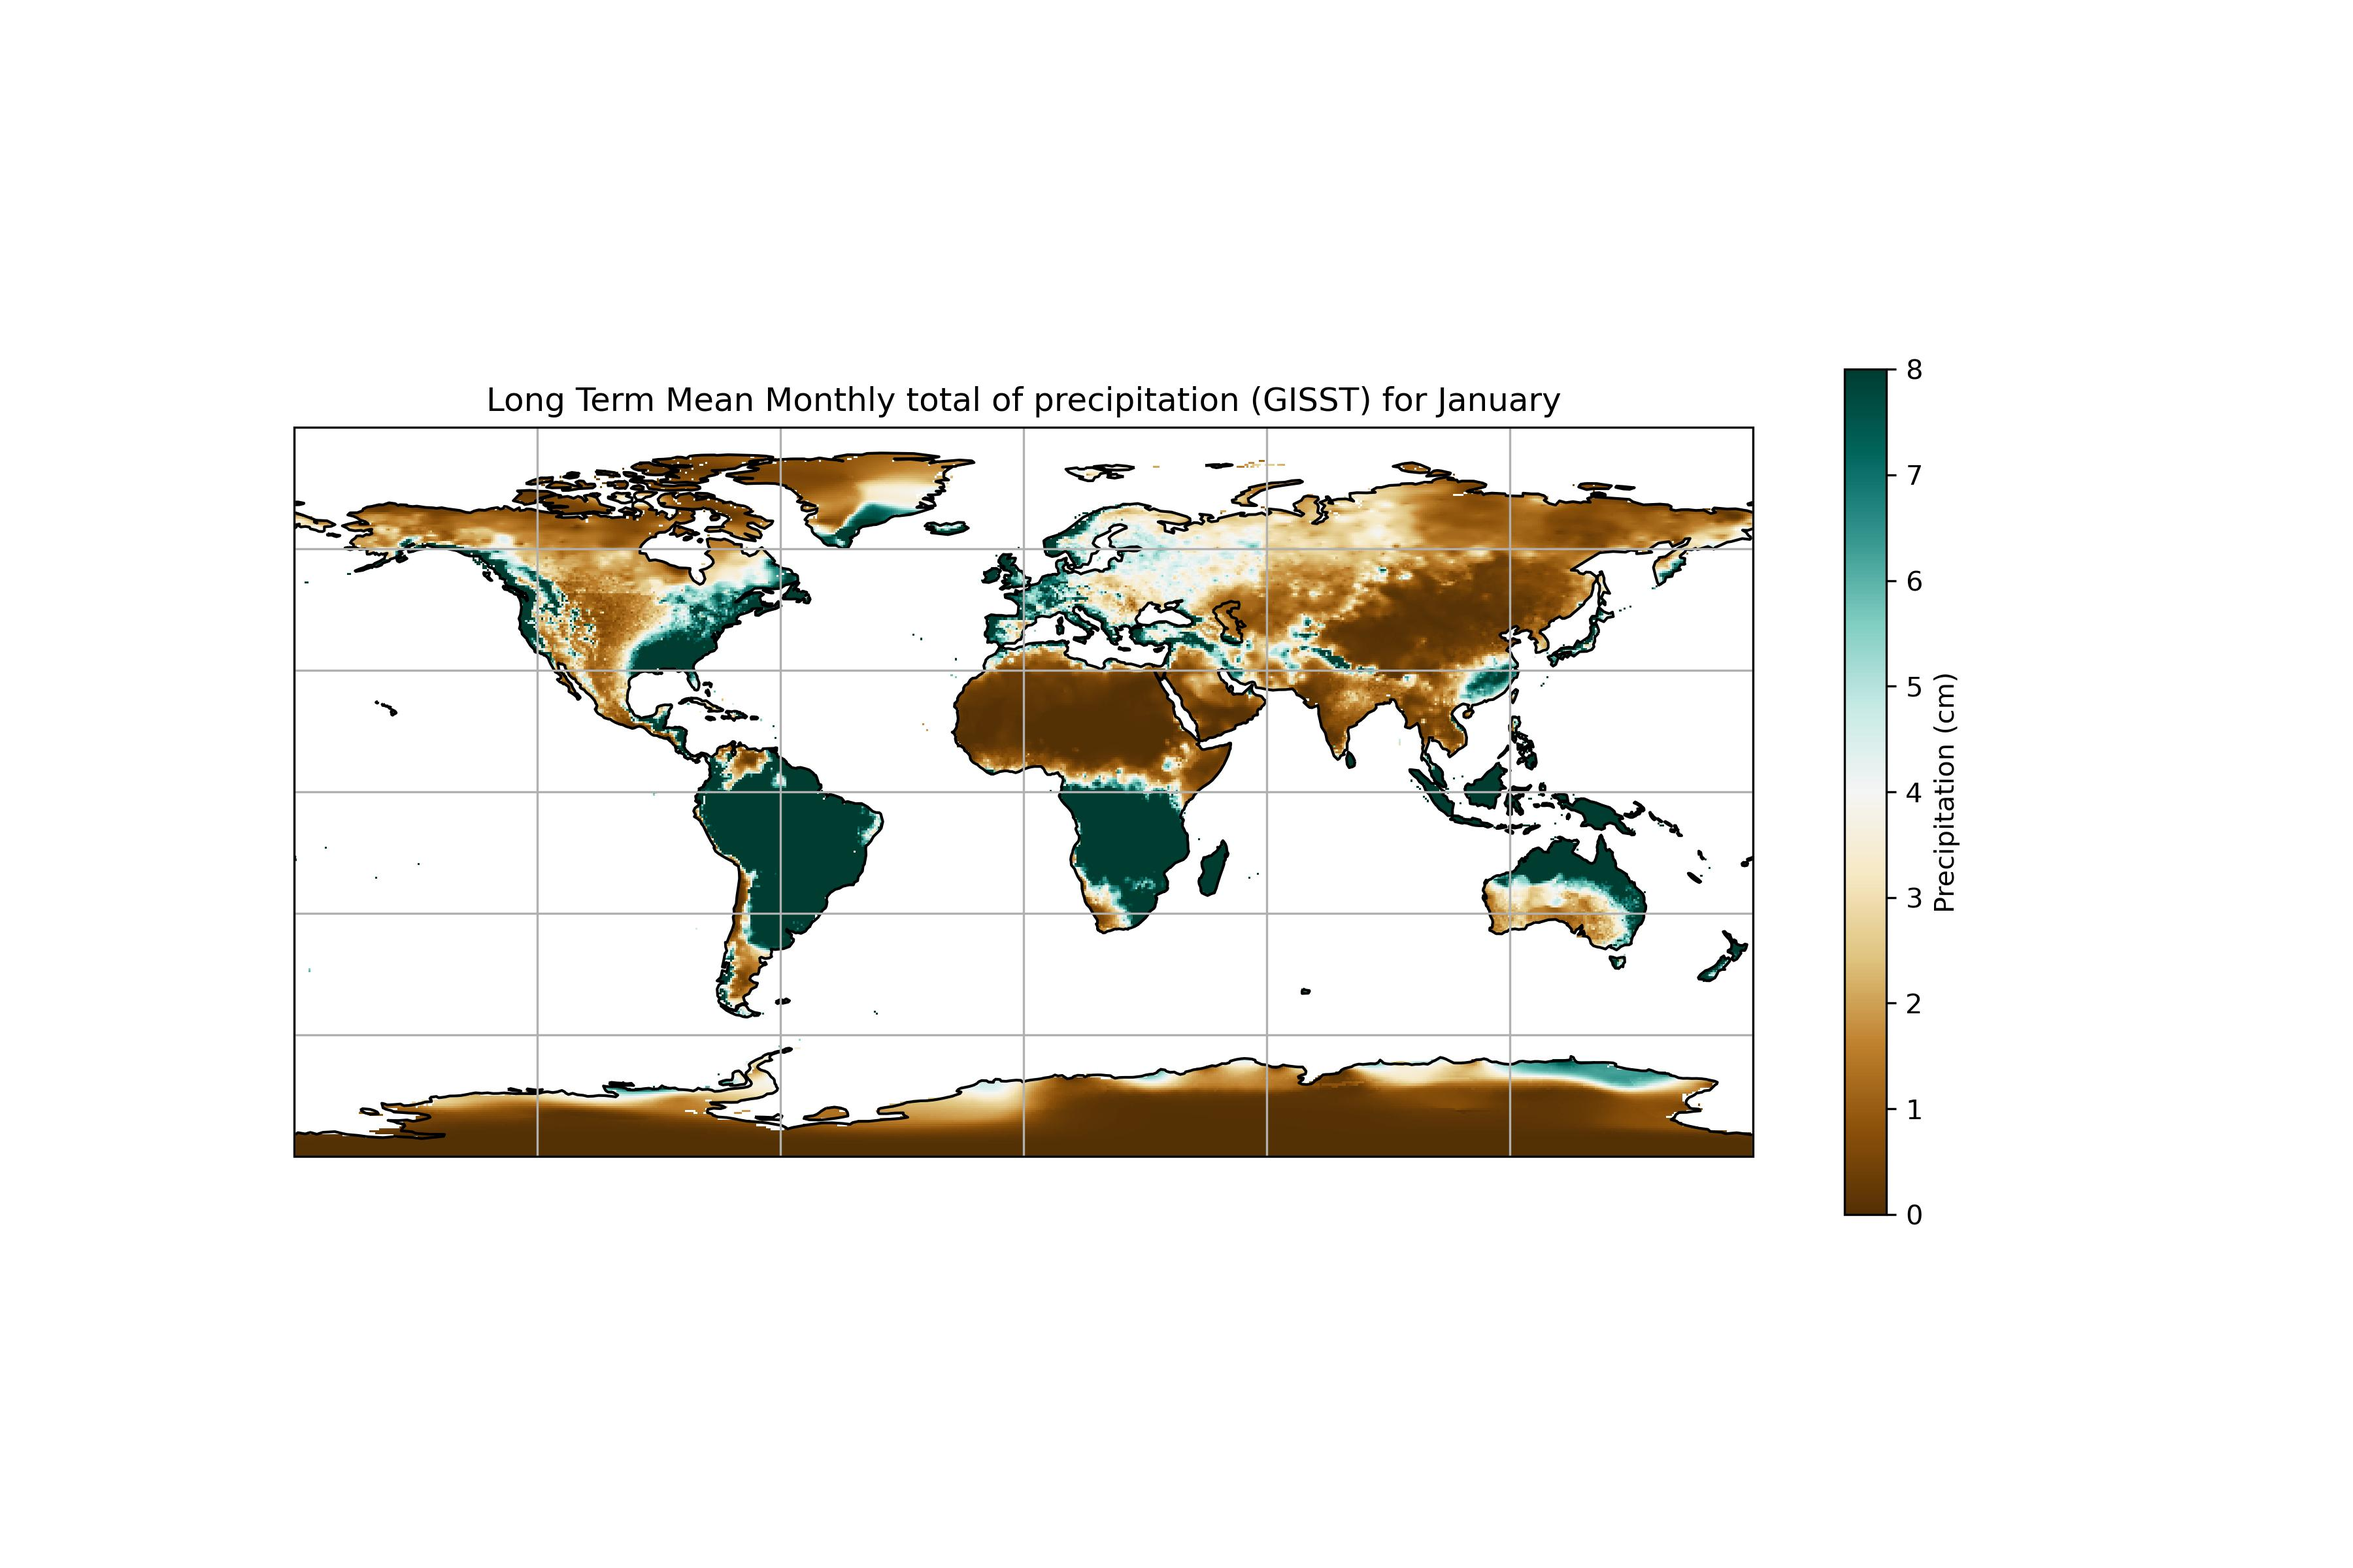
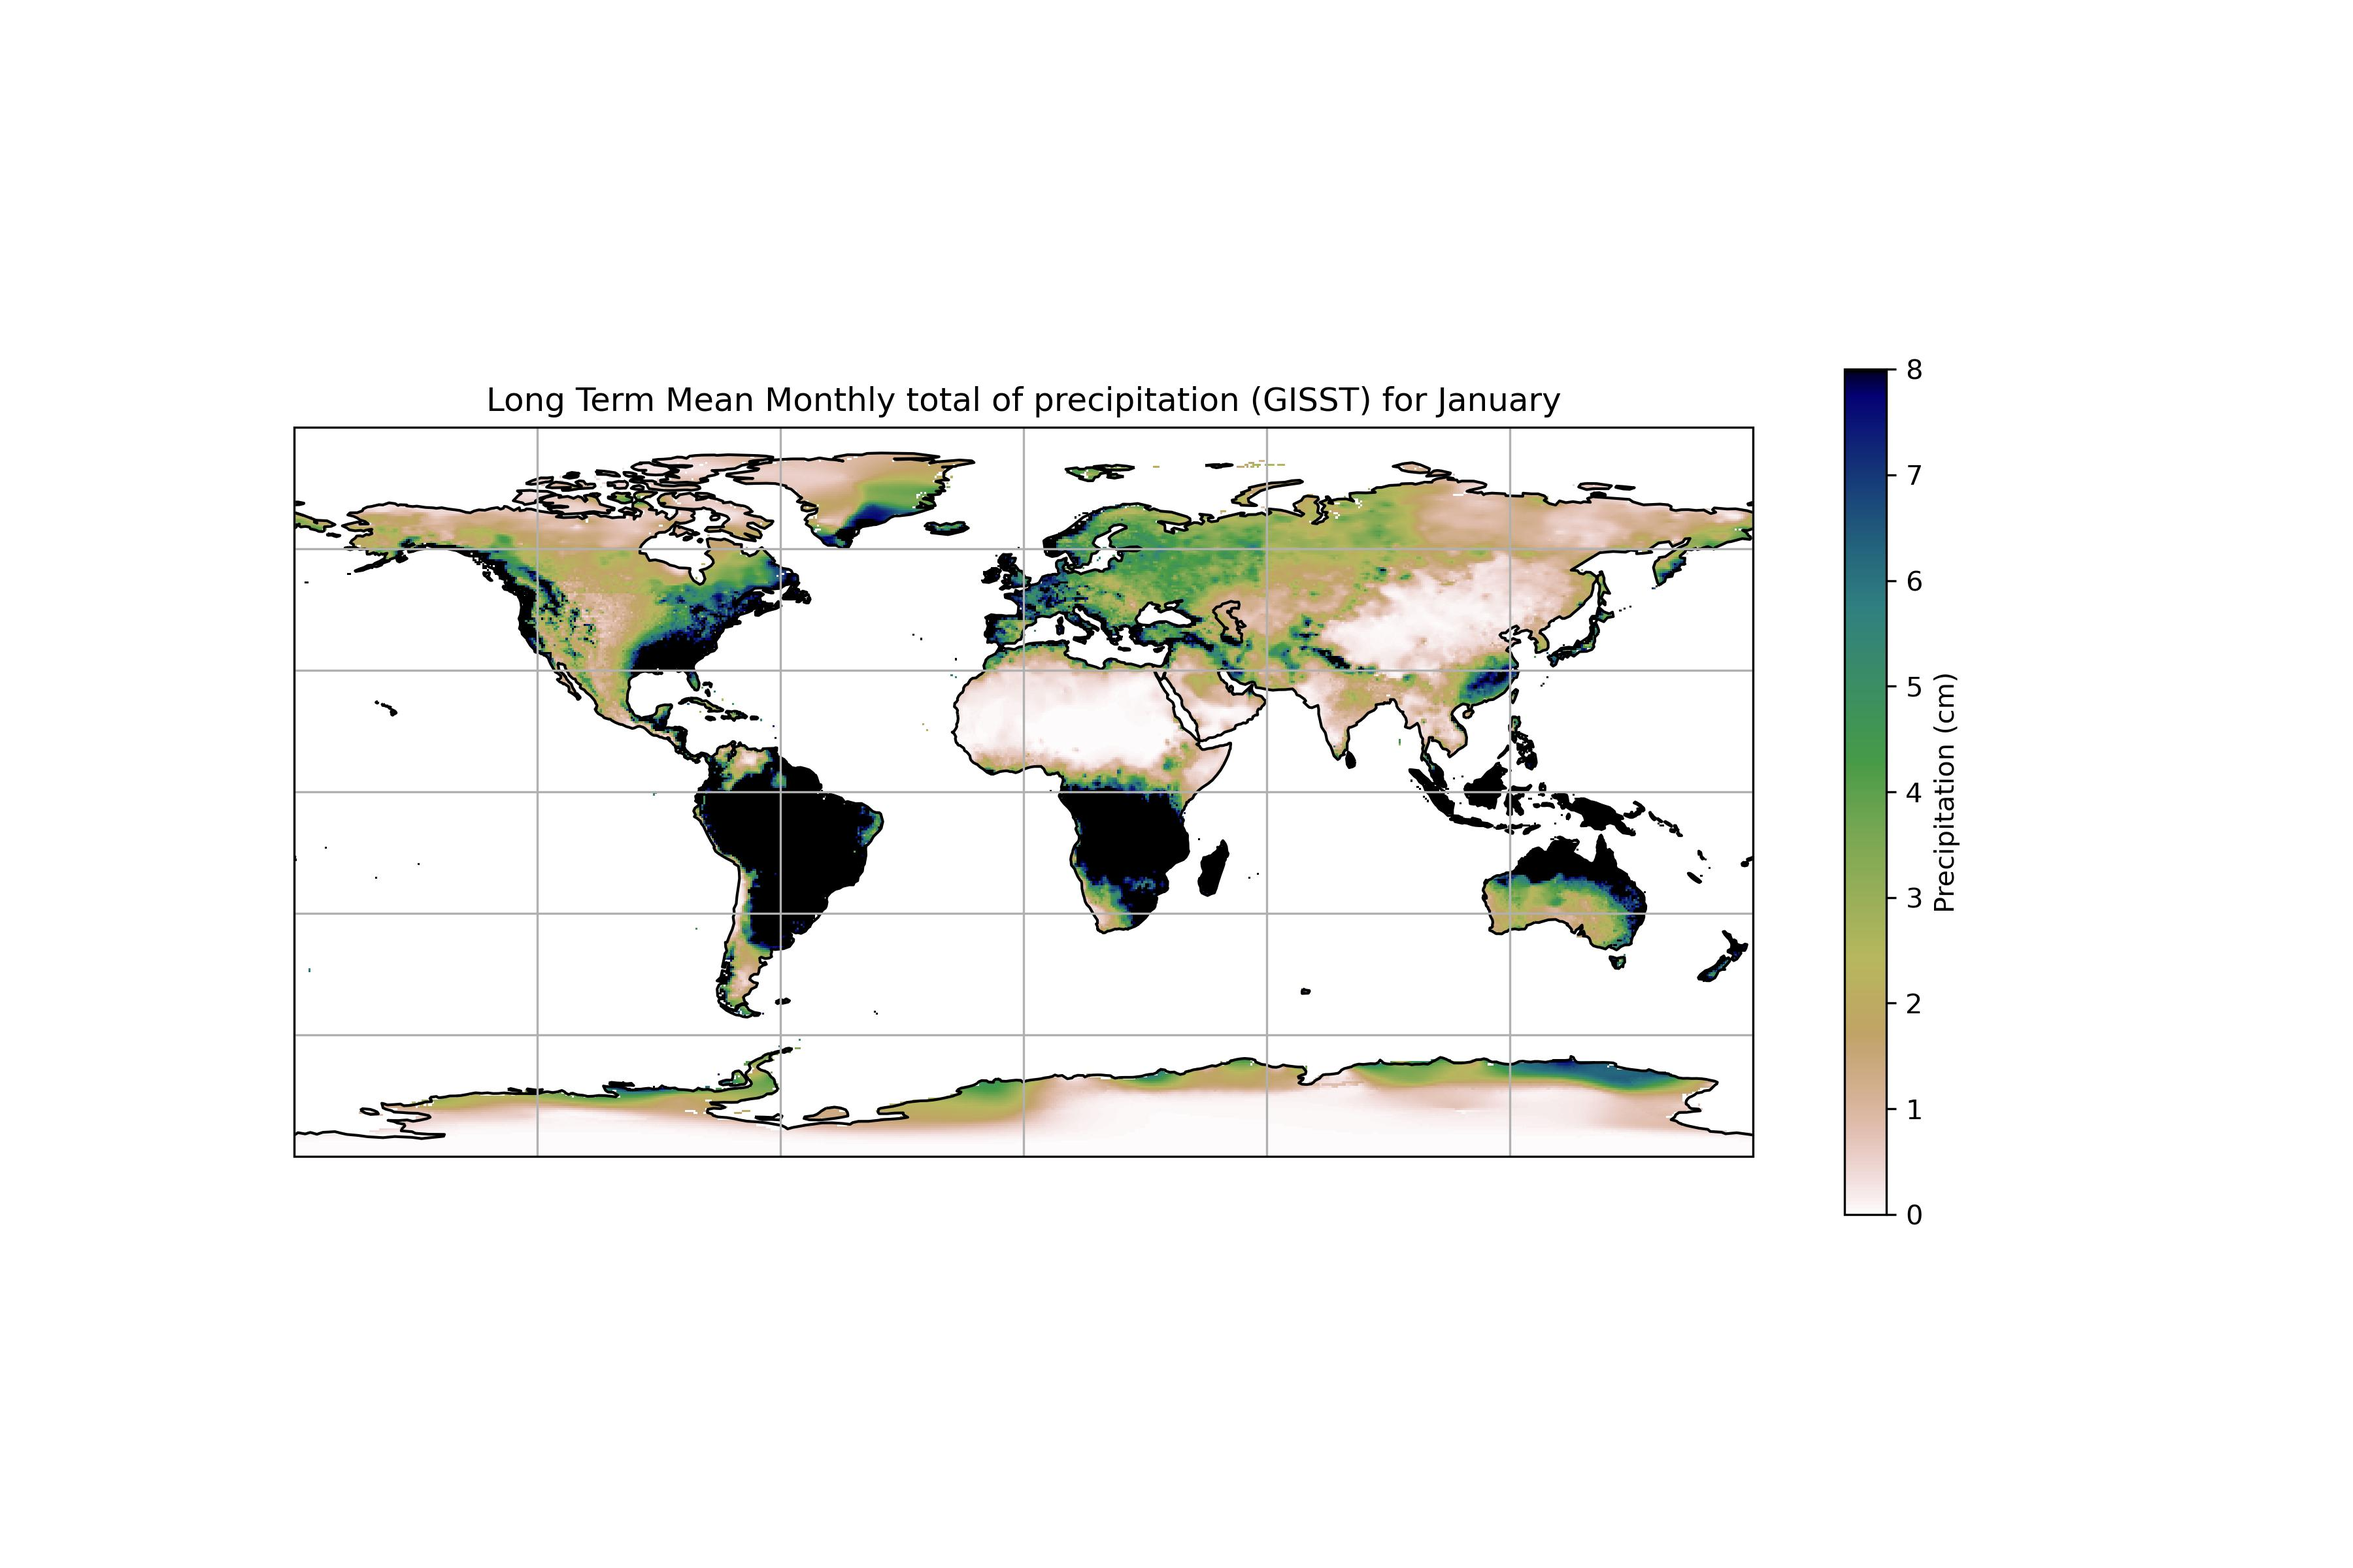
Update week07 data

diff --git a/python/week07_visualization/solution/w07_02_global_precip_map.solution.py b/python/week07_visualization/solution/w07_02_global_precip_map.solution.py
@@ -77,7 +77,7 @@ ax = fig.add_subplot(1, 1, 1, projection=ccrs.PlateCarree())
 # Examples: 'viridis', 'viridis_r', 'Blues', 'GnBu', 'YlGnBu'
 # Full list: https://matplotlib.org/stable/users/explain/colors/colormaps.html
 #color_name = 'rainbow'
-color_name = 'BrBG'
+color_name = 'gist_earth_r'
 cmap = plt.get_cmap(color_name)
 
 # Plotting using the defined axes
